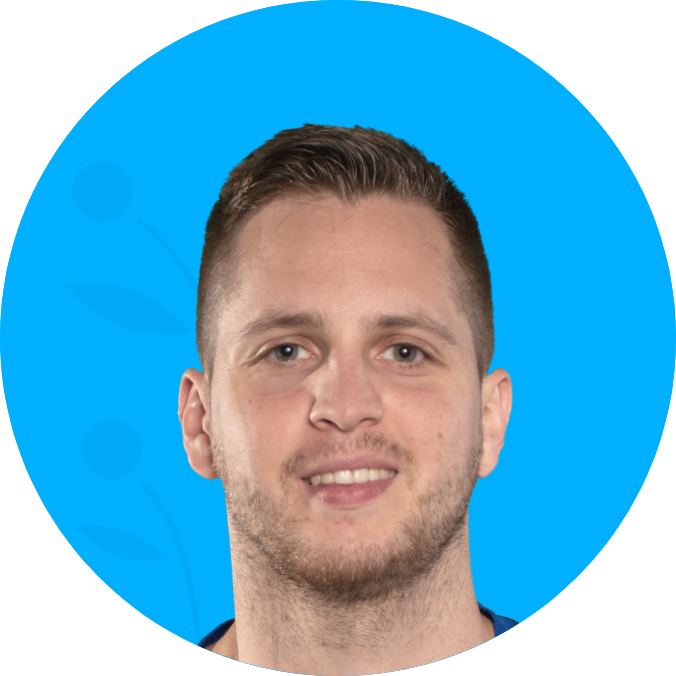
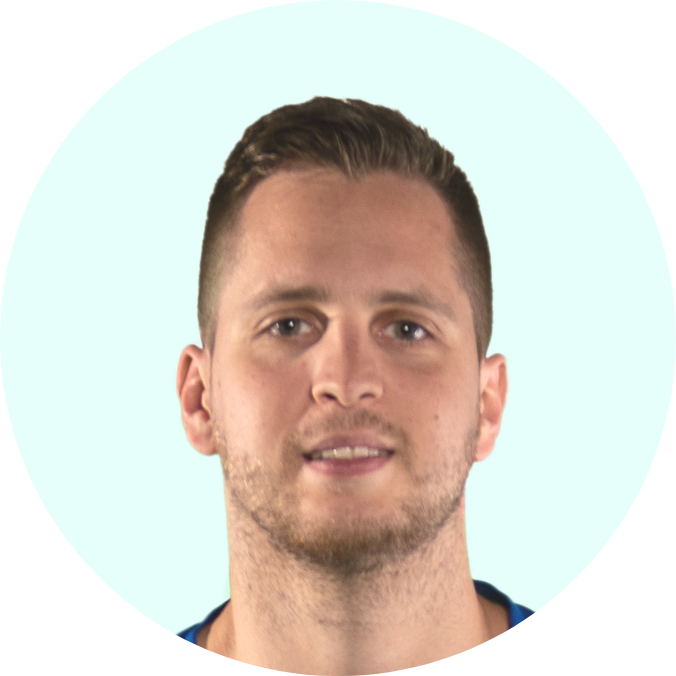
Color updated to teal

diff --git a/index.html b/index.html
@@ -17,31 +17,31 @@
         </div>
       </div>
       <ul id="menu" class="-ml-64 md:ml-0 text-sm mt-12 text-lg md:text-xl font-bold lg:mr-12 fixed bg-white min-h-screen z-50">
-        <li data-index="1" class="text-main hover:text-blue-300 py-2 md:py-3">
+        <li data-index="1" class="text-teal-500 hover:text-teal-400 py-2 md:py-3">
           <a href="#home" class="px-4 flex">
             <svg class="w-6 mr-2" viewBox="0 0 20 20" fill="currentColor"><path d="M10.707 2.293a1 1 0 00-1.414 0l-7 7a1 1 0 001.414 1.414L4 10.414V17a1 1 0 001 1h2a1 1 0 001-1v-2a1 1 0 011-1h2a1 1 0 011 1v2a1 1 0 001 1h2a1 1 0 001-1v-6.586l.293.293a1 1 0 001.414-1.414l-7-7z"></path></svg>
             <span class="mx-4">Home</span>
           </a>
         </li>
-        <li data-index="2" class="text-secondary hover:text-blue-300 py-3">
+        <li data-index="2" class="text-secondary hover:text-teal-400 py-3">
           <a href="#about" class="px-4 flex">
             <svg class="w-6 mr-2" fill="currentColor" viewBox="0 0 20 20" xmlns="http://www.w3.org/2000/svg"><path fill-rule="evenodd" d="M18 10a8 8 0 11-16 0 8 8 0 0116 0zm-6-3a2 2 0 11-4 0 2 2 0 014 0zm-2 4a5 5 0 00-4.546 2.916A5.986 5.986 0 0010 16a5.986 5.986 0 004.546-2.084A5 5 0 0010 11z" clip-rule="evenodd"></path></svg>
             <span class="mx-4">Über mich</span>
           </a>
         </li>
-        <li data-index="3" class="text-secondary hover:text-blue-300 py-3">
+        <li data-index="3" class="text-secondary hover:text-teal-400 py-3">
           <a href="#skills" class="px-4 flex">
             <svg class="w-6 mr-2" fill="currentColor" viewBox="0 0 20 20" xmlns="http://www.w3.org/2000/svg"><path d="M10.394 2.08a1 1 0 00-.788 0l-7 3a1 1 0 000 1.84L5.25 8.051a.999.999 0 01.356-.257l4-1.714a1 1 0 11.788 1.838L7.667 9.088l1.94.831a1 1 0 00.787 0l7-3a1 1 0 000-1.838l-7-3zM3.31 9.397L5 10.12v4.102a8.969 8.969 0 00-1.05-.174 1 1 0 01-.89-.89 11.115 11.115 0 01.25-3.762zM9.3 16.573A9.026 9.026 0 007 14.935v-3.957l1.818.78a3 3 0 002.364 0l5.508-2.361a11.026 11.026 0 01.25 3.762 1 1 0 01-.89.89 8.968 8.968 0 00-5.35 2.524 1 1 0 01-1.4 0zM6 18a1 1 0 001-1v-2.065a8.935 8.935 0 00-2-.712V17a1 1 0 001 1z"></path></svg>
             <span class="mx-4">Kenntnisse</span>
           </a>
         </li>
-        <li data-index="4" class="text-secondary hover:text-blue-300 py-3">
+        <li data-index="4" class="text-secondary hover:text-teal-400 py-3">
           <a href="#experience" class="px-4 flex">
             <svg class="w-6 mr-2" fill="currentColor" viewBox="0 0 20 20" xmlns="http://www.w3.org/2000/svg"><path fill-rule="evenodd" d="M4 4a2 2 0 012-2h4.586A2 2 0 0112 2.586L15.414 6A2 2 0 0116 7.414V16a2 2 0 01-2 2H6a2 2 0 01-2-2V4zm2 6a1 1 0 011-1h6a1 1 0 110 2H7a1 1 0 01-1-1zm1 3a1 1 0 100 2h6a1 1 0 100-2H7z" clip-rule="evenodd"></path></svg>
             <span class="mx-4">Lebenslauf</span>
           </a>
         </li>
-        <li data-index="5" class="text-secondary hover:text-blue-300 py-3">
+        <li data-index="5" class="text-secondary hover:text-teal-400 py-3">
           <a href="#contact" class="px-4 flex">
             <svg class="w-6 mr-2" fill="currentColor" viewBox="0 0 20 20" xmlns="http://www.w3.org/2000/svg"><path d="M2.003 5.884L10 9.882l7.997-3.998A2 2 0 0016 4H4a2 2 0 00-1.997 1.884z"></path><path d="M18 8.118l-8 4-8-4V14a2 2 0 002 2h12a2 2 0 002-2V8.118z"></path></svg>
             <span class="mx-4">Kontakt</span>
@@ -50,16 +50,16 @@
       </ul>
     </nav>
     <!-- end nav -->
-    <main id="home" class="px-8 bg-gray-100 md:col-span-6 xl:px-40">
+    <main id="home" class="px-8 md:col-span-6 xl:px-40">
       <section class="pt-16 text-secondary md:pt-48 lg:pt-0">
         <div class="sm:container mx-auto flex flex-col md:flex-row items-center lg:min-h-screen text-center md:text-left ">
           <div class="order-2 md:order-1 pt-12 md:pt-0">
             <h1 class="text-4xl md:text-5xl tracking-tight leading-10 font-extrabold text-secondary sm:leading-none lg:text-6xl">Thomas<br class="hidden md:block"> Szewczyk</h1>
-            <div class="border-4 w-12 my-8 border-main mx-auto md:mx-0"></div>
+            <div class="border-4 w-12 my-8 border-teal-500 mx-auto md:mx-0"></div>
             <p class="subtitle">Medieninformatiker.</p>
           </div>
           <div class="order-1 md:order-2">
-            <img class="block mx-auto" src="./img/undraw_starry_window_ppm0.svg" alt="Strry Window Illustration">
+            <img class="block mx-auto" src="./img/undraw_starry_window_teal.svg" alt="Strry Window Illustration">
           </div>
         </div>
       </section>
@@ -93,32 +93,32 @@
           <h1 class="text-3xl lg:text-5xl">Kenntnisse und Fähigkeiten</h1>
           <div class="text-center flex flex-1 flex-col md:flex-row flex-wrap py-12 mx-auto justify-center">
             <div class="md:w-1/3 my-4 md:my-8 px-4">
-              <svg class="w-10 block mx-auto mb-2" fill="#00b0ff" viewBox="0 0 20 20" xmlns="http://www.w3.org/2000/svg"><path fill-rule="evenodd" d="M2 5a2 2 0 012-2h12a2 2 0 012 2v10a2 2 0 01-2 2H4a2 2 0 01-2-2V5zm3.293 1.293a1 1 0 011.414 0l3 3a1 1 0 010 1.414l-3 3a1 1 0 01-1.414-1.414L7.586 10 5.293 7.707a1 1 0 010-1.414zM11 12a1 1 0 100 2h3a1 1 0 100-2h-3z" clip-rule="evenodd"></path></svg>
+              <svg class="w-10 block mx-auto mb-2" fill="#4FD1C5" viewBox="0 0 20 20" xmlns="http://www.w3.org/2000/svg"><path fill-rule="evenodd" d="M2 5a2 2 0 012-2h12a2 2 0 012 2v10a2 2 0 01-2 2H4a2 2 0 01-2-2V5zm3.293 1.293a1 1 0 011.414 0l3 3a1 1 0 010 1.414l-3 3a1 1 0 01-1.414-1.414L7.586 10 5.293 7.707a1 1 0 010-1.414zM11 12a1 1 0 100 2h3a1 1 0 100-2h-3z" clip-rule="evenodd"></path></svg>
               <h3 class="text-lg font-medium mb-2 md:mb-4">Programmierung</h3>
               <p>Kenntnisse der Programmierung mit Java und C++.</p>
             </div>
             <div class="md:w-1/3 my-4 md:my-8 px-4">
-              <svg class="w-10 block mx-auto mb-2" fill="#00b0ff" viewBox="0 0 20 20" xmlns="http://www.w3.org/2000/svg"><path fill-rule="evenodd" d="M3 5a2 2 0 012-2h10a2 2 0 012 2v8a2 2 0 01-2 2h-2.22l.123.489.804.804A1 1 0 0113 18H7a1 1 0 01-.707-1.707l.804-.804L7.22 15H5a2 2 0 01-2-2V5zm5.771 7H5V5h10v7H8.771z" clip-rule="evenodd"></path></svg>
+              <svg class="w-10 block mx-auto mb-2" fill="#4FD1C5" viewBox="0 0 20 20" xmlns="http://www.w3.org/2000/svg"><path fill-rule="evenodd" d="M3 5a2 2 0 012-2h10a2 2 0 012 2v8a2 2 0 01-2 2h-2.22l.123.489.804.804A1 1 0 0113 18H7a1 1 0 01-.707-1.707l.804-.804L7.22 15H5a2 2 0 01-2-2V5zm5.771 7H5V5h10v7H8.771z" clip-rule="evenodd"></path></svg>
               <h3 class="text-lg font-medium mb-2 md:mb-4">Webdesign</h3>
               <p>Konzipierungstechniken und Prototyping</p>
             </div>
             <div class="md:w-1/3 my-4 md:my-8 px-4">
-              <svg class="w-10 block mx-auto mb-2" fill="#00b0ff" viewBox="0 0 20 20" xmlns="http://www.w3.org/2000/svg"><path fill-rule="evenodd" d="M6.672 1.911a1 1 0 10-1.932.518l.259.966a1 1 0 001.932-.518l-.26-.966zM2.429 4.74a1 1 0 10-.517 1.932l.966.259a1 1 0 00.517-1.932l-.966-.26zm8.814-.569a1 1 0 00-1.415-1.414l-.707.707a1 1 0 101.415 1.415l.707-.708zm-7.071 7.072l.707-.707A1 1 0 003.465 9.12l-.708.707a1 1 0 001.415 1.415zm3.2-5.171a1 1 0 00-1.3 1.3l4 10a1 1 0 001.823.075l1.38-2.759 3.018 3.02a1 1 0 001.414-1.415l-3.019-3.02 2.76-1.379a1 1 0 00-.076-1.822l-10-4z" clip-rule="evenodd"></path></svg>
+              <svg class="w-10 block mx-auto mb-2" fill="#4FD1C5" viewBox="0 0 20 20" xmlns="http://www.w3.org/2000/svg"><path fill-rule="evenodd" d="M6.672 1.911a1 1 0 10-1.932.518l.259.966a1 1 0 001.932-.518l-.26-.966zM2.429 4.74a1 1 0 10-.517 1.932l.966.259a1 1 0 00.517-1.932l-.966-.26zm8.814-.569a1 1 0 00-1.415-1.414l-.707.707a1 1 0 101.415 1.415l.707-.708zm-7.071 7.072l.707-.707A1 1 0 003.465 9.12l-.708.707a1 1 0 001.415 1.415zm3.2-5.171a1 1 0 00-1.3 1.3l4 10a1 1 0 001.823.075l1.38-2.759 3.018 3.02a1 1 0 001.414-1.415l-3.019-3.02 2.76-1.379a1 1 0 00-.076-1.822l-10-4z" clip-rule="evenodd"></path></svg>
               <h3 class="text-lg font-medium mb-2 md:mb-4">Usability & User Experience</h3>
               <p>Evaluation und Optimierung der Gebrauchstauglichkeit und des Benutzerelebnisses</p>
             </div>
             <div class="md:w-1/3 my-4 md:my-8 px-4">
-              <svg class="w-10 block mx-auto mb-2" fill="#00b0ff" viewBox="0 0 20 20" xmlns="http://www.w3.org/2000/svg"><path fill-rule="evenodd" d="M4.083 9h1.946c.089-1.546.383-2.97.837-4.118A6.004 6.004 0 004.083 9zM10 2a8 8 0 100 16 8 8 0 000-16zm0 2c-.076 0-.232.032-.465.262-.238.234-.497.623-.737 1.182-.389.907-.673 2.142-.766 3.556h3.936c-.093-1.414-.377-2.649-.766-3.556-.24-.56-.5-.948-.737-1.182C10.232 4.032 10.076 4 10 4zm3.971 5c-.089-1.546-.383-2.97-.837-4.118A6.004 6.004 0 0115.917 9h-1.946zm-2.003 2H8.032c.093 1.414.377 2.649.766 3.556.24.56.5.948.737 1.182.233.23.389.262.465.262.076 0 .232-.032.465-.262.238-.234.498-.623.737-1.182.389-.907.673-2.142.766-3.556zm1.166 4.118c.454-1.147.748-2.572.837-4.118h1.946a6.004 6.004 0 01-2.783 4.118zm-6.268 0C6.412 13.97 6.118 12.546 6.03 11H4.083a6.004 6.004 0 002.783 4.118z" clip-rule="evenodd"></path></svg>
+              <svg class="w-10 block mx-auto mb-2" fill="#4FD1C5" viewBox="0 0 20 20" xmlns="http://www.w3.org/2000/svg"><path fill-rule="evenodd" d="M4.083 9h1.946c.089-1.546.383-2.97.837-4.118A6.004 6.004 0 004.083 9zM10 2a8 8 0 100 16 8 8 0 000-16zm0 2c-.076 0-.232.032-.465.262-.238.234-.497.623-.737 1.182-.389.907-.673 2.142-.766 3.556h3.936c-.093-1.414-.377-2.649-.766-3.556-.24-.56-.5-.948-.737-1.182C10.232 4.032 10.076 4 10 4zm3.971 5c-.089-1.546-.383-2.97-.837-4.118A6.004 6.004 0 0115.917 9h-1.946zm-2.003 2H8.032c.093 1.414.377 2.649.766 3.556.24.56.5.948.737 1.182.233.23.389.262.465.262.076 0 .232-.032.465-.262.238-.234.498-.623.737-1.182.389-.907.673-2.142.766-3.556zm1.166 4.118c.454-1.147.748-2.572.837-4.118h1.946a6.004 6.004 0 01-2.783 4.118zm-6.268 0C6.412 13.97 6.118 12.546 6.03 11H4.083a6.004 6.004 0 002.783 4.118z" clip-rule="evenodd"></path></svg>
               <h3 class="text-lg font-medium mb-2 md:mb-4">Webtechnolgien</h3>
               <p>HTML5, CSS, JavaScript, PHP, XML, JavaServerFaces</p>
             </div>
             <div class="md:w-1/3 my-4 md:my-8 px-4">
-              <svg class="w-10 block mx-auto mb-2" fill="#00b0ff" viewBox="0 0 20 20" xmlns="http://www.w3.org/2000/svg"><path fill-rule="evenodd" d="M12.316 3.051a1 1 0 01.633 1.265l-4 12a1 1 0 11-1.898-.632l4-12a1 1 0 011.265-.633zM5.707 6.293a1 1 0 010 1.414L3.414 10l2.293 2.293a1 1 0 11-1.414 1.414l-3-3a1 1 0 010-1.414l3-3a1 1 0 011.414 0zm8.586 0a1 1 0 011.414 0l3 3a1 1 0 010 1.414l-3 3a1 1 0 11-1.414-1.414L16.586 10l-2.293-2.293a1 1 0 010-1.414z" clip-rule="evenodd"></path></svg>
+              <svg class="w-10 block mx-auto mb-2" fill="#4FD1C5" viewBox="0 0 20 20" xmlns="http://www.w3.org/2000/svg"><path fill-rule="evenodd" d="M12.316 3.051a1 1 0 01.633 1.265l-4 12a1 1 0 11-1.898-.632l4-12a1 1 0 011.265-.633zM5.707 6.293a1 1 0 010 1.414L3.414 10l2.293 2.293a1 1 0 11-1.414 1.414l-3-3a1 1 0 010-1.414l3-3a1 1 0 011.414 0zm8.586 0a1 1 0 011.414 0l3 3a1 1 0 010 1.414l-3 3a1 1 0 11-1.414-1.414L16.586 10l-2.293-2.293a1 1 0 010-1.414z" clip-rule="evenodd"></path></svg>
               <h3 class="text-lg font-medium mb-2 md:mb-4">Webentwicklung</h3>
               <p>Entwicklung von Websites.</p>
             </div>
             <div class="md:w-1/3 my-4 md:my-8 px-4">
-              <svg class="w-10 block mx-auto mb-2" fill="#00b0ff" viewBox="0 0 20 20" xmlns="http://www.w3.org/2000/svg"><path d="M2 5a2 2 0 012-2h7a2 2 0 012 2v4a2 2 0 01-2 2H9l-3 3v-3H4a2 2 0 01-2-2V5z"></path><path d="M15 7v2a4 4 0 01-4 4H9.828l-1.766 1.767c.28.149.599.233.938.233h2l3 3v-3h2a2 2 0 002-2V9a2 2 0 00-2-2h-1z"></path></svg>
+              <svg class="w-10 block mx-auto mb-2" fill="#4FD1C5" viewBox="0 0 20 20" xmlns="http://www.w3.org/2000/svg"><path d="M2 5a2 2 0 012-2h7a2 2 0 012 2v4a2 2 0 01-2 2H9l-3 3v-3H4a2 2 0 01-2-2V5z"></path><path d="M15 7v2a4 4 0 01-4 4H9.828l-1.766 1.767c.28.149.599.233.938.233h2l3 3v-3h2a2 2 0 002-2V9a2 2 0 00-2-2h-1z"></path></svg>
               <h3 class="text-lg font-medium mb-2 md:mb-4">Fremdsprachen</h3>
               <p>Deutsch und Polnisch als Muttersprachen. Englisch fließend in Schrift und Sprache</p>
             </div>
@@ -129,11 +129,11 @@
         <h1 class="text-3xl lg:text-5xl text-center">Lebenslauf</h1>
         <div class="flex py-12">
           <div class="relative m-8">
-            <div class="border-r-2 border-blue-300 absolute h-full top-0" style="left: 15px"></div>
+            <div class="border-r-2 border-teal-300 absolute h-full top-0" style="left: 15px"></div>
             <ul class="list-none m-0 p-0">
               <li class="mb-2">
                 <div class="flex items-center mb-1">
-                  <div class="bg-blue-300 rounded-full h-8 w-8"></div>
+                  <div class="bg-teal-300 rounded-full h-8 w-8"></div>
                   <div class="flex-1 ml-4 font-medium">voraus. Oktober 2021 -  Medieninformatik, Bachelor of Science </div>
                 </div>
                 <div class="ml-12">
@@ -142,7 +142,7 @@
               </li>
               <li class="mb-2">
                 <div class="flex items-center mb-1">
-                  <div class="bg-blue-300 rounded-full h-8 w-8">
+                  <div class="bg-teal-300 rounded-full h-8 w-8">
                   </div>
                   <div class="flex-1 ml-4 font-medium">August 2012 - Juli 2020</div>
                 </div>
@@ -152,7 +152,7 @@
               </li>
               <li class="mb-2">
                 <div class="flex items-center mb-1">
-                  <div class="bg-blue-300 rounded-full h-8 w-8"></div>
+                  <div class="bg-teal-300 rounded-full h-8 w-8"></div>
                   <div class="flex-1 ml-4 font-medium">Juli 2012 - Allgemeine Hochschulreife</div>
                 </div>
                 <div class="ml-12">
@@ -207,7 +207,7 @@
               </div>
               <div class="mt-8">
                 <button
-                class="uppercase text-sm font-bold tracking-wide bg-secondary hover:bg-main text-gray-100 p-3 rounded-lg w-full focus:outline-none focus:shadow-outline">
+                class="uppercase text-sm font-bold tracking-wide bg-teal-800 hover:bg-teal-600 text-gray-100 p-3 rounded-lg w-full focus:outline-none focus:shadow-outline">
                 Senden
               </button>
             </div>

diff --git a/main.js b/main.js
@@ -34,9 +34,9 @@ function toggleNav() {
 }
 
 function modifyActive() {
-  let currentActive = document.querySelector('.text-main');
+  let currentActive = document.querySelector('.text-teal-500');
   currentActive.classList.add('text-secondary');
-  currentActive.classList.remove('text-main');
+  currentActive.classList.remove('text-teal-500');
 }
 
 var isInViewport = function (elem) {
@@ -78,5 +78,5 @@ window.addEventListener('scroll', function (event) {
 
 function setNewActive(elem) {
   elem.classList.remove('text-secondary');
-  elem.classList.add('text-main');
+  elem.classList.add('text-teal-500');
 }
